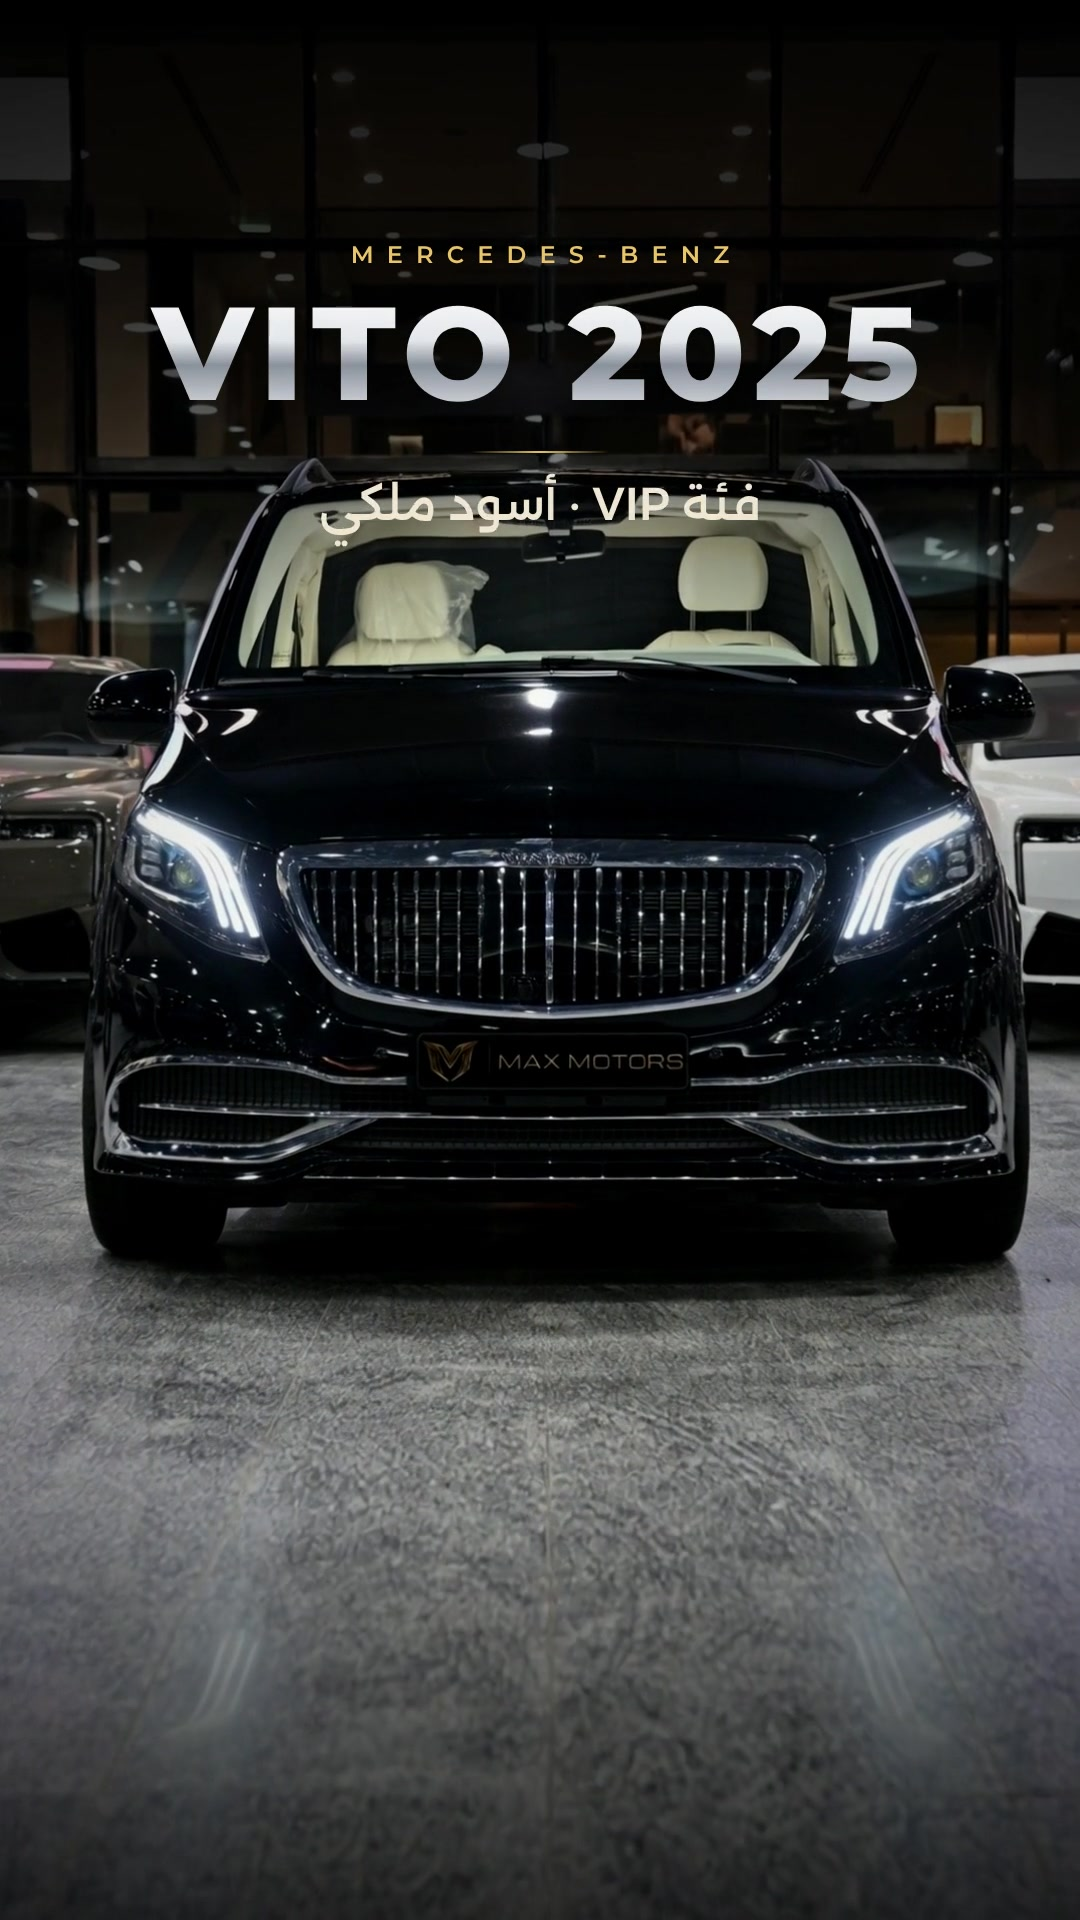
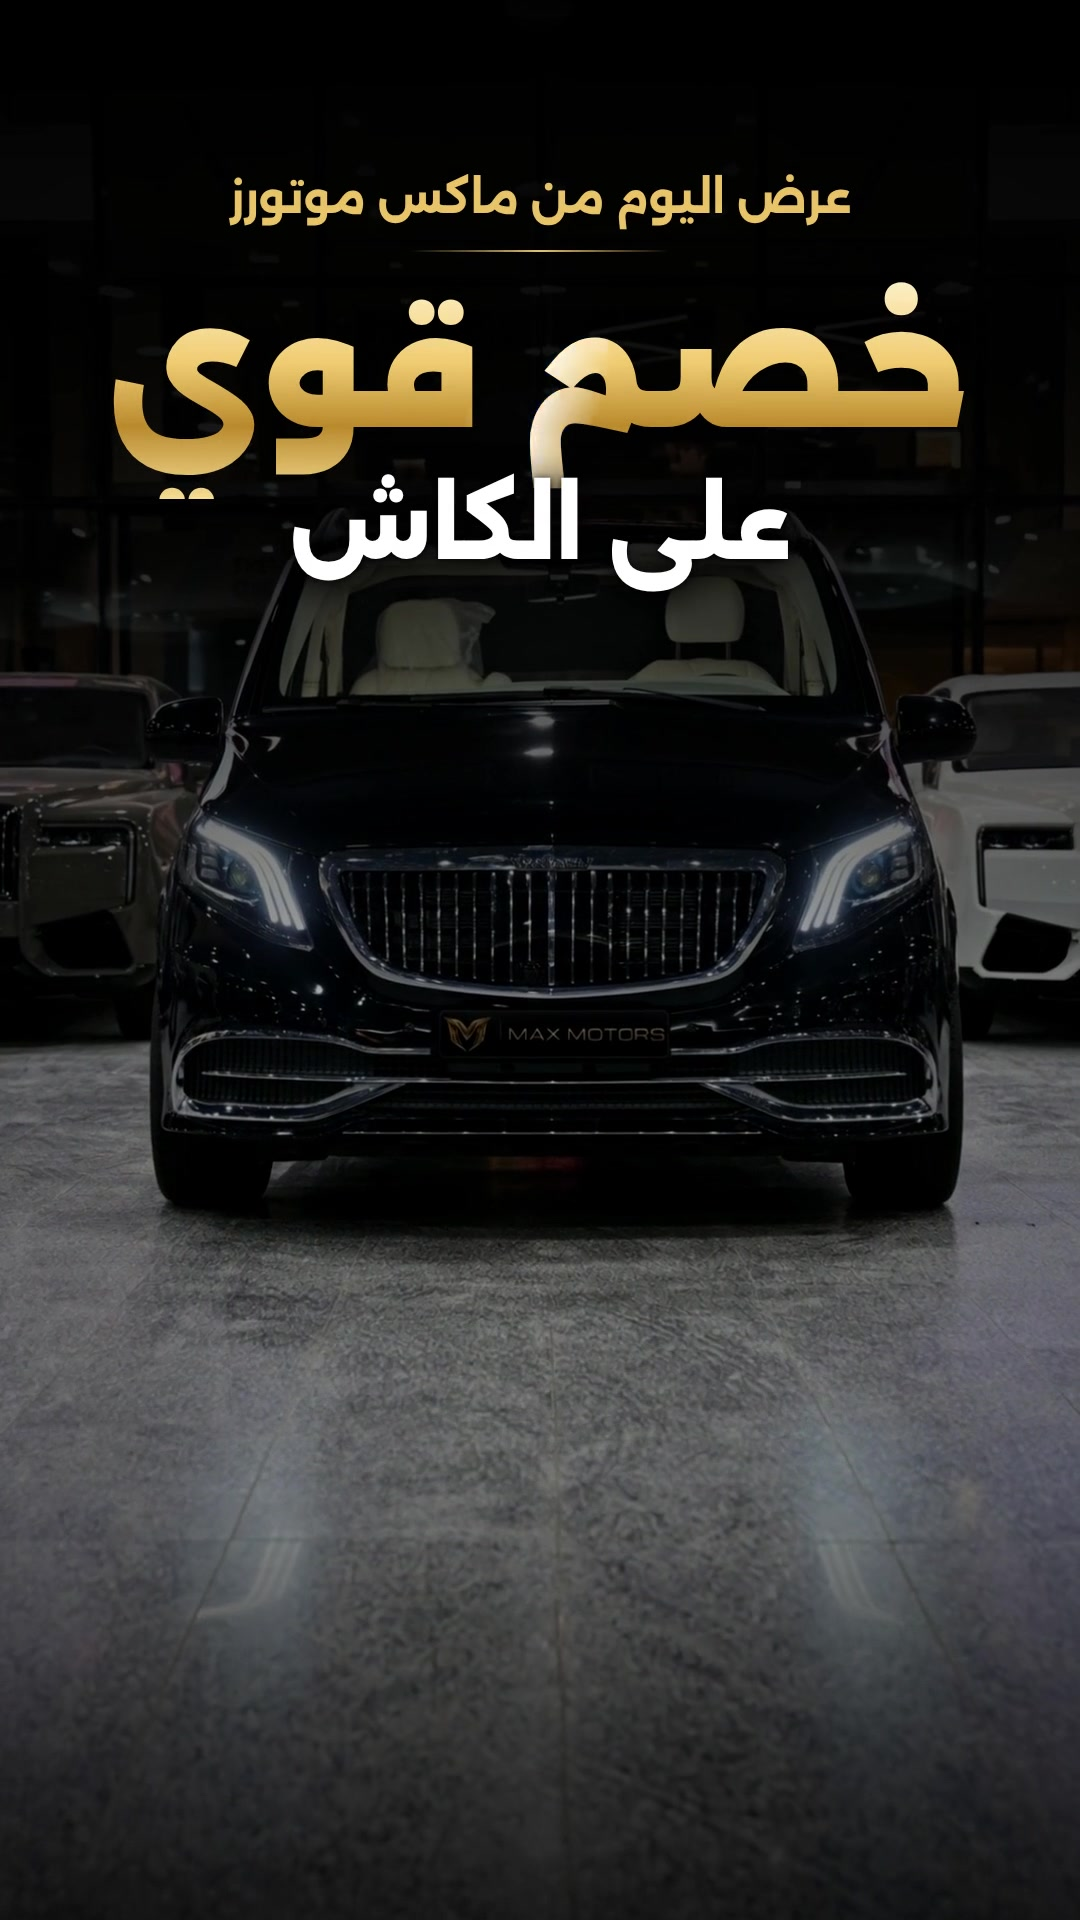
Add cash-discount hook to the opening of both Vito ads
Claude-Session: https://claude.ai/code/session_015zP6EZCfcft7xPXYaAAbZU

diff --git a/campaign-vito-2025/source/ov2.html b/campaign-vito-2025/source/ov2.html
@@ -25,6 +25,15 @@ html,body{width:1080px;height:1920px;background:transparent;overflow:hidden}
 <div id="stage">
   <div class="layer" id="topGrad"></div>
   <div class="layer" id="botGrad"></div>
+  <div class="layer" id="hook" style="opacity:0">
+    <div class="layer" style="background:linear-gradient(180deg,rgba(0,0,0,.88) 0%,rgba(0,0,0,.7) 34%,rgba(0,0,0,.25) 55%,rgba(0,0,0,.35) 100%)"></div>
+    <div class="txt" style="top:170px">
+      <div id="h1" style="font-size:44px;font-weight:700;color:#e9c46a">عرض اليوم من ماكس موتورز</div>
+      <div id="hl" class="line" style="width:260px;margin-top:26px"></div>
+      <div id="h2" style="margin-top:18px"><span class="gold" style="font-size:160px;font-weight:900;line-height:1.25;white-space:nowrap">خصم قوي</span></div>
+      <div id="h3" class="sh" style="font-size:92px;font-weight:800;margin-top:0;white-space:nowrap">على الكاش</div>
+    </div>
+  </div>
   <div class="layer" id="texts"></div>
   <div class="layer" id="offer" style="opacity:0">
     <div class="layer" style="background:linear-gradient(180deg,rgba(0,0,0,.92) 0%,rgba(0,0,0,.75) 30%,rgba(0,0,0,.15) 45%,rgba(0,0,0,.15) 65%,rgba(0,0,0,.85) 78%,rgba(0,0,0,.95) 100%)"></div>
@@ -75,6 +84,14 @@ function anim(el,t,dur){
 window.render=function(T){
   const S=CFG.scenes;
   S.forEach((s,i)=>{const el=$('#tx'+i); if(T<s.a||T>=s.b){el.style.opacity=0;return;} el.style.opacity=1; anim(el,T-s.a,s.b-s.a);});
+  const hk=$('#hook'), HE=CFG.hookEnd||2.3;
+  if(T<HE+.05){ const ex=eio(prog(T,HE-.3,.3)); hk.style.opacity=1-ex;
+    const p2=prog(T,.05,.35); const h2=$('#h2'); h2.style.opacity=clamp(p2*2.5); h2.style.transform=`scale(${lerp(1.5,1,eo(p2))})`; h2.style.filter=`blur(${lerp(16,0,eo(p2))}px)`;
+    const p3=eo(prog(T,.35,.4)); $('#h3').style.opacity=p3; $('#h3').style.transform=`translateY(${lerp(40,0,p3)}px)`;
+    const p1=eo(prog(T,.55,.45)); $('#h1').style.opacity=p1; $('#h1').style.transform=`translateY(${lerp(-24,0,p1)}px)`;
+    $('#hl').style.transform=`scaleX(${eo(prog(T,.6,.6))})`;
+    const sp=((T-.4)%1.6)/1.6*160-30; h2.querySelector('span').style.backgroundImage=`linear-gradient(105deg,rgba(255,255,255,0) ${sp-7}%,rgba(255,255,255,.9) ${sp}%,rgba(255,255,255,0) ${sp+7}%),linear-gradient(180deg,#fff4cf 0%,#f0cc72 40%,#b98a2e 68%,#f6dc93 100%)`;
+  } else hk.style.opacity=0;
   let fl=0; CFG.hits.forEach(h=>{const d=T-h; if(d>=0&&d<.3) fl=Math.max(fl,(1-d/.3)*.55);});
   $('#flash').style.opacity=fl;
   const vis=T<CFG.offerAt; $('#topGrad').style.opacity=vis?1:0; $('#botGrad').style.opacity=vis?1:0;

diff --git a/campaign-vito-2025/source/cfg2.js b/campaign-vito-2025/source/cfg2.js
@@ -1,8 +1,8 @@
 const T=(k,t,top=250)=>`<div class="txt" style="top:${top}px"><div data-d=".2" class="kick" data-ls=".55">${k}</div><div data-d=".35" class="sh" style="font-size:80px;font-weight:800;line-height:1.35;margin-top:14px;white-space:nowrap">${t}</div><div data-d=".55" class="line"></div></div>`;
-const hook=(sub)=>`<div class="txt" style="top:240px"><div data-d=".6" class="kick" data-ls=".55">MERCEDES-BENZ</div><div data-d=".9" class="lat chrome sh" style="font-weight:800;font-size:132px;letter-spacing:.06em;line-height:1.15;margin-top:8px;white-space:nowrap">VITO 2025</div><div data-d="1.3" class="line"></div><div data-d="1.6" class="sh" style="font-size:46px;font-weight:500;margin-top:22px;color:#efe6d2">${sub}</div></div>`;
+const hook=(sub)=>`<div class="txt" style="top:240px"><div data-d="2.35" class="kick" data-ls=".55">MERCEDES-BENZ</div><div data-d="2.5" class="lat chrome sh" style="font-weight:800;font-size:132px;letter-spacing:.06em;line-height:1.15;margin-top:8px;white-space:nowrap">VITO 2025</div><div data-d="2.8" class="line"></div><div data-d="3.0" class="sh" style="font-size:46px;font-weight:500;margin-top:22px;color:#efe6d2">${sub}</div></div>`;
 const A=[0,4.75,7.2,9.4,11.7,14.0,16.5,19.1];
 const mk=l=>l.map((h,i)=>({a:A[i],b:A[i+1],html:h}));
-const base={hits:[4.75,9.4,14.0,19.1,24.0],offerAt:19.1,endAt:24.0,total:30};
+const base={hits:[0.05,4.75,9.4,14.0,19.1,24.0],hookEnd:2.3,offerAt:19.1,endAt:24.0,total:30};
 module.exports={
  car1:Object.assign({},base,{scenes:mk([hook('فئة VIP · أسود ملكي'),T('EXTERIOR','فخامة تليق بك'),T('INTERIOR','داخلية جلد فاخرة'),T('STARLIGHT','سقف النجوم'),T('VIP SEATS','كراسي كابتن VIP'),T('LOUNGE','صالون رجال الأعمال'),T('MAX MOTORS','الآن في ماكس موتورز')])}),
  car2:Object.assign({},base,{scenes:mk([hook('فئة VIP · أسود ملكي'),T('EXTERIOR','حضور فخم'),T('INTERIOR','خشب وجلد فاخر'),T('VIP TABLE','طاولة VIP'),T('AMBIENT','إضاءة محيطية'),T('LOUNGE','صالون رجال الأعمال'),T('MAX MOTORS','الآن في ماكس موتورز')])}),
